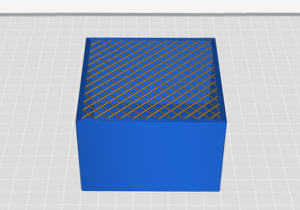
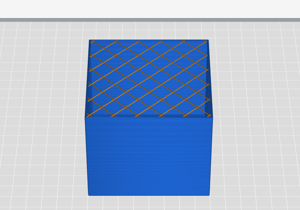
DEEC-264 # Added missing infill and support patterns

Changed region(s): [[0.24, 0.1714, 0.78, 0.9429], [0.0, 0.0571, 1.0, 0.1143]]

diff --git a/src/main/java/com/ysoft/dctrl/ui/tooltip/TooltipDefinition.java b/src/main/java/com/ysoft/dctrl/ui/tooltip/TooltipDefinition.java
@@ -39,8 +39,8 @@ public enum TooltipDefinition {
     ),
     INFILL_PATTERN(
             "slicer_infill_pattern", "slicer_infill_pattern_tooltip",
-            new String[]{"img/tooltip/infill-pattern-grid.png", "img/tooltip/infill-pattern-lines.png"},
-            new String[]{"slicer_infill_pattern_tooltip_grid", "slicer_infill_pattern_tooltip_lines"}
+            new String[]{"img/tooltip/infill-pattern-grid.png", "img/tooltip/infill-pattern-lines.png", "img/tooltip/infill-pattern-cubic.png"},
+            new String[]{"slicer_infill_pattern_tooltip_grid", "slicer_infill_pattern_tooltip_lines", "slicer_infill_pattern_tooltip_cubic"}
     ),
     INFILL_DENSITY(
             "slicer_infill_density", "slicer_infill_density_tooltip",
@@ -54,8 +54,8 @@ public enum TooltipDefinition {
     ),
     SUPPORT_PATTERN(
             "slicer_support_pattern", "slicer_support_pattern_tooltip",
-            new String[]{"img/tooltip/support_pattern_lines.png", "img/tooltip/support_pattern_grid.png"},
-            new String[]{"slicer_support_pattern_tooltip_lines", "slicer_support_pattern_tooltip_grid"}
+            new String[]{"img/tooltip/support-pattern-lines.png", "img/tooltip/support-pattern-grid.png", "img/tooltip/support-pattern-zigzag.png"},
+            new String[]{"slicer_support_pattern_tooltip_lines", "slicer_support_pattern_tooltip_grid", "slicer_support_pattern_tooltip_zigzag"}
     ),
     SUPPORT_ANGLE(
             "slicer_support_angle", "slicer_support_angle_tooltip",
